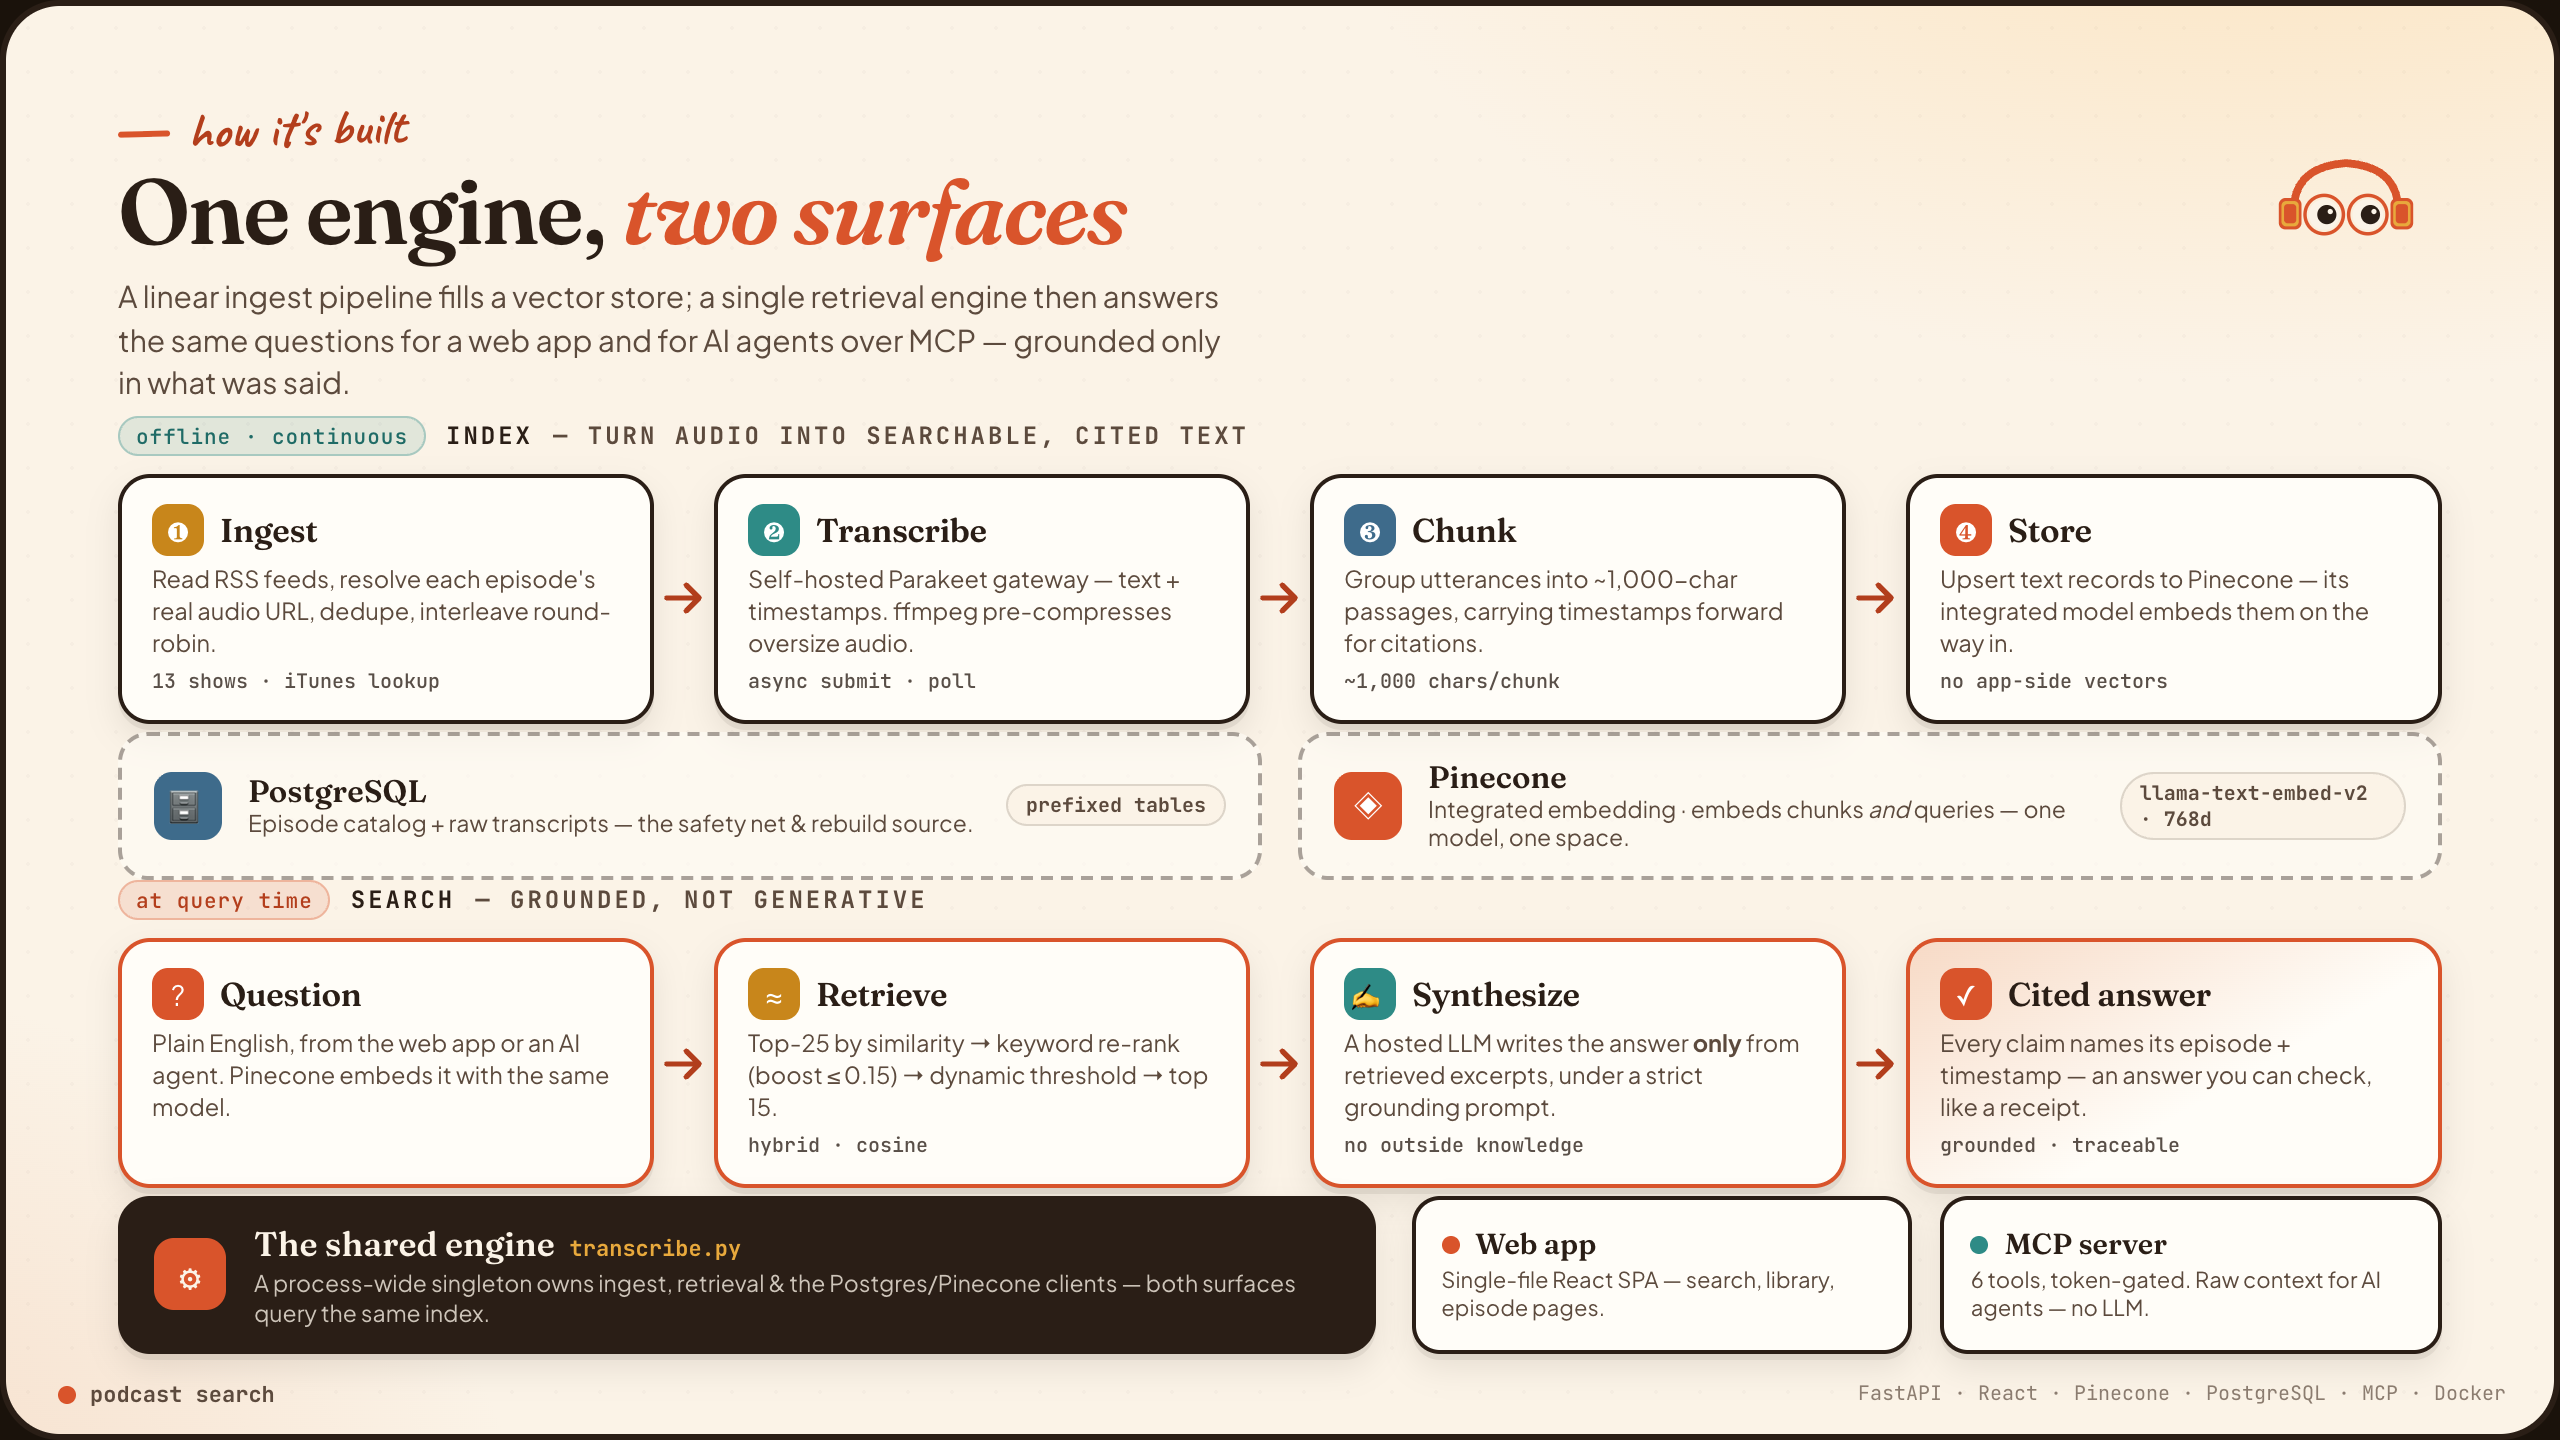
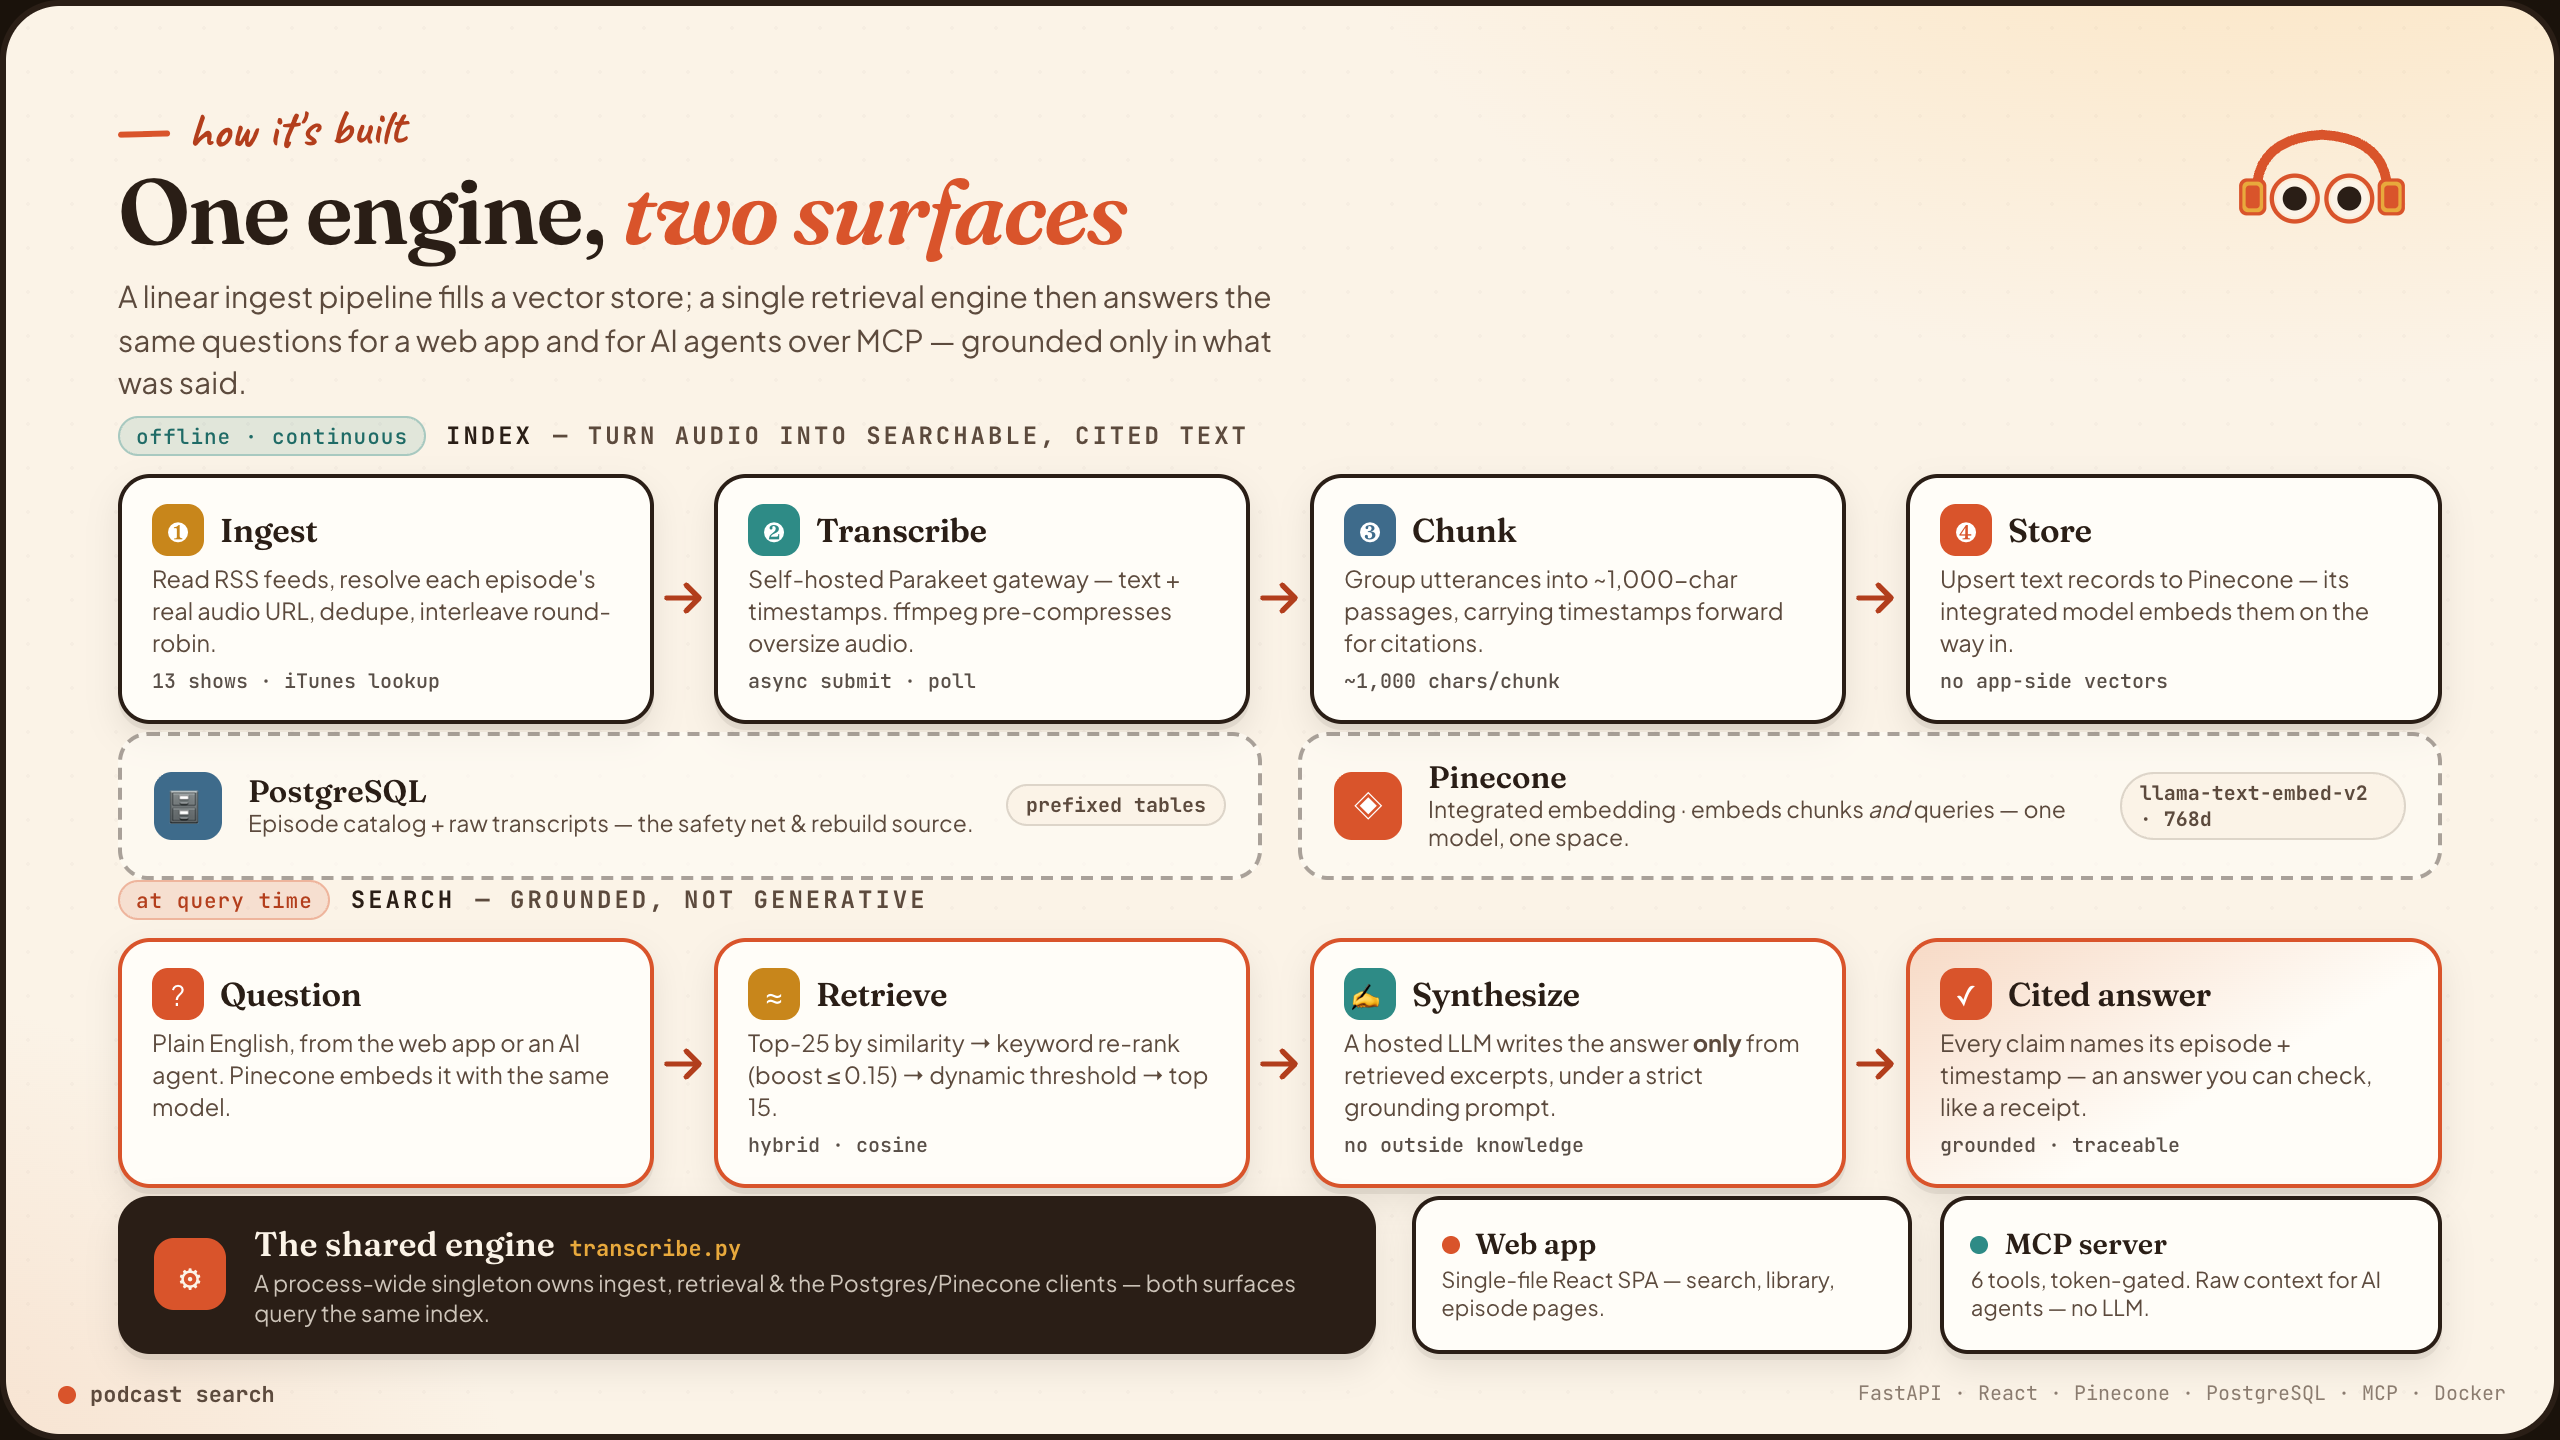
Rework screenshot set into the designed LinkedIn card series
Replace the old numbered captures with a consistent, brand-marked set
(app, architecture, deck, deck-cover, github, site) rendered from the
matching HTML in linkedin/; drop the stale capture-live.js helper and
refresh screenshots/README.md to document the new series.

Changed region(s): [[0.0312, 0.1875, 0.5, 0.2812], [0.875, 0.0938, 0.9688, 0.1562]]

diff --git a/screenshots/README.md b/screenshots/README.md
@@ -1,24 +1,22 @@
 # Screenshots & promo assets
 
 Visuals for the README and the LinkedIn launch kit ([`../linkedin/`](../linkedin)).
-Capture site shots at 2× (retina); crop out anything that reveals production
-hostnames or IPs; keep GIFs small enough that LinkedIn accepts them (~8 MB).
+Every card uses the site's logo (the eyes-headphones mark) for a consistent set.
 
 | File | What it is |
 |------|-----------|
-| `podcast-search-demo.gif` | Live search end-to-end — ask a question, a cited answer renders. **Used as the README hero.** |
-| `podcast-search-architecture.png` | One-page architecture ("one engine, two surfaces"). Embedded in the README; rendered from `../podsearch-deck/architecture.html`. |
-| `podcast-search-deck-cover.png` | The slide-deck cover, for the LinkedIn "Presentation" media item. |
-| `01-homepage.png` | The search-first homepage. |
-| `02-pipeline.png` | The live indexing / pipeline page. |
-| `03-library.png` | The Shelf / library view. |
-| `04-search.png` | A search with its answer + sources expanded. |
-| `05-github.png` | The GitHub repo page (link thumbnail). |
+| `podcast-search-demo.gif` | Live search end-to-end — ask a question, a cited answer renders. **README hero.** |
+| `podcast-search-app.png` | The live homepage — the search-first product shot. |
+| `podcast-search-architecture.png` | One-page architecture ("one engine, two surfaces"). Also embedded in the README. |
+| `podcast-search-deck.png` | "The story, in 16 slides" — the LinkedIn "Presentation" media item. |
+| `podcast-search-deck-cover.png` | The deck cover / title card. |
+| `podcast-search-site.png` | "Live · try it" — the site-link thumbnail. |
+| `podcast-search-github.png` | The repo card — the GitHub-link thumbnail. |
 
-`capture-live.js` is a small helper for grabbing fresh site shots after a deploy.
-
-Regenerate the architecture diagram:
+The designed cards (`architecture`, `github`, `site`, `deck`, `deck-cover`) are
+rendered from matching HTML in [`../linkedin/`](../linkedin); `app` and `demo.gif`
+are captured from the live site. To regenerate the cards:
 
 ```bash
-cd ../podsearch-deck && node render-architecture.js
+cd ../podsearch-deck && node render-cards.js   # → ../screenshots/podcast-search-*.png
 ```
